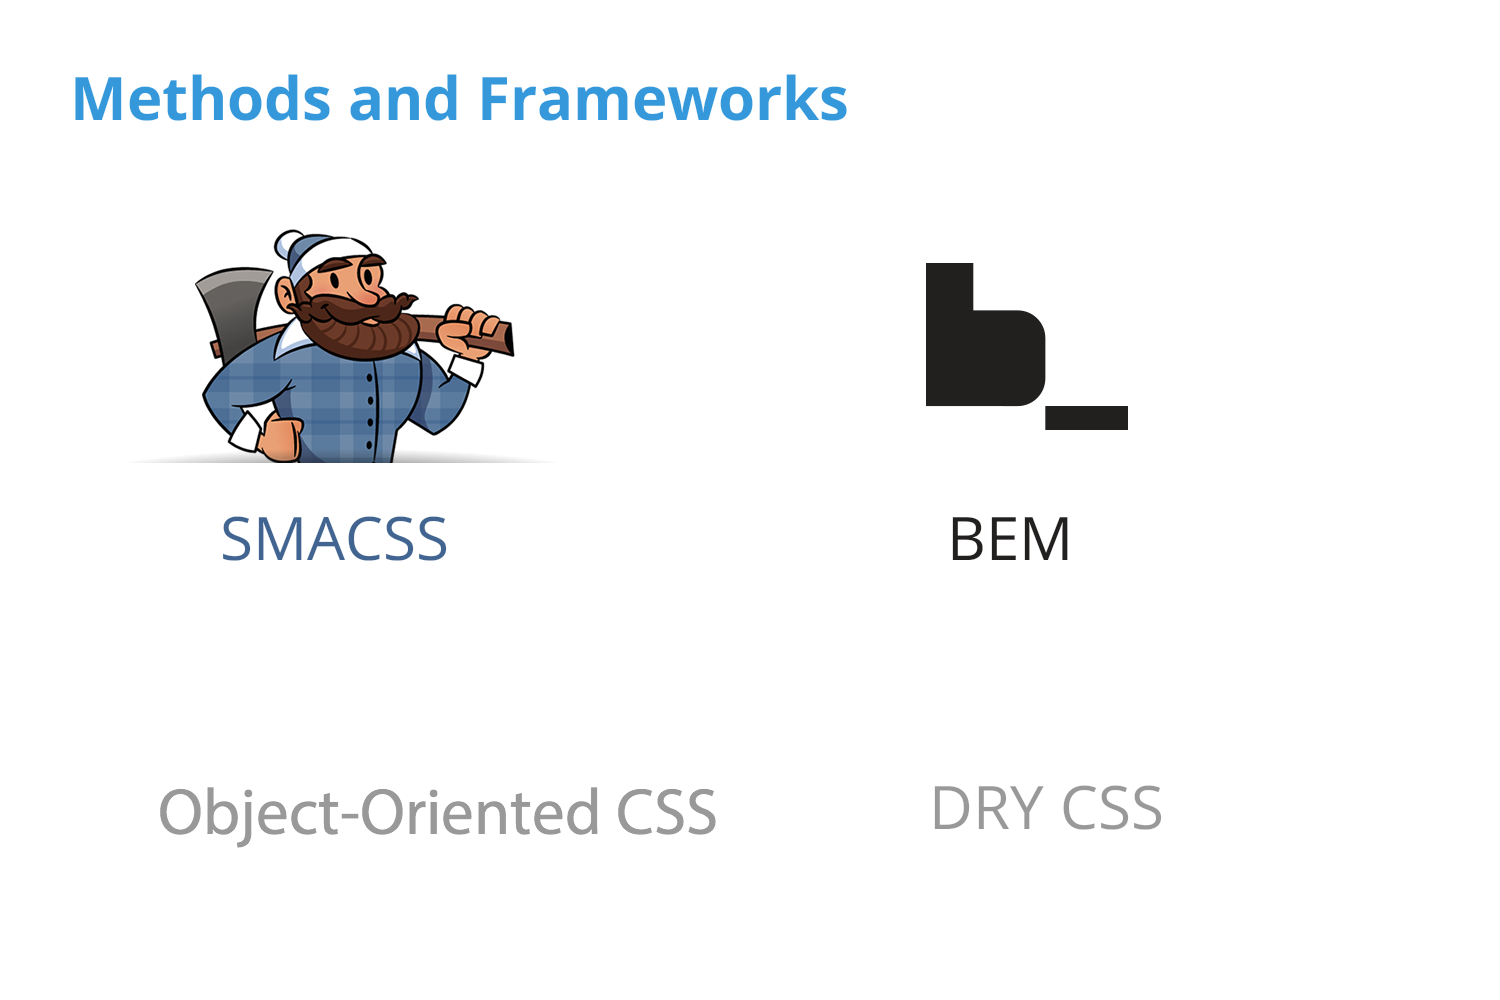
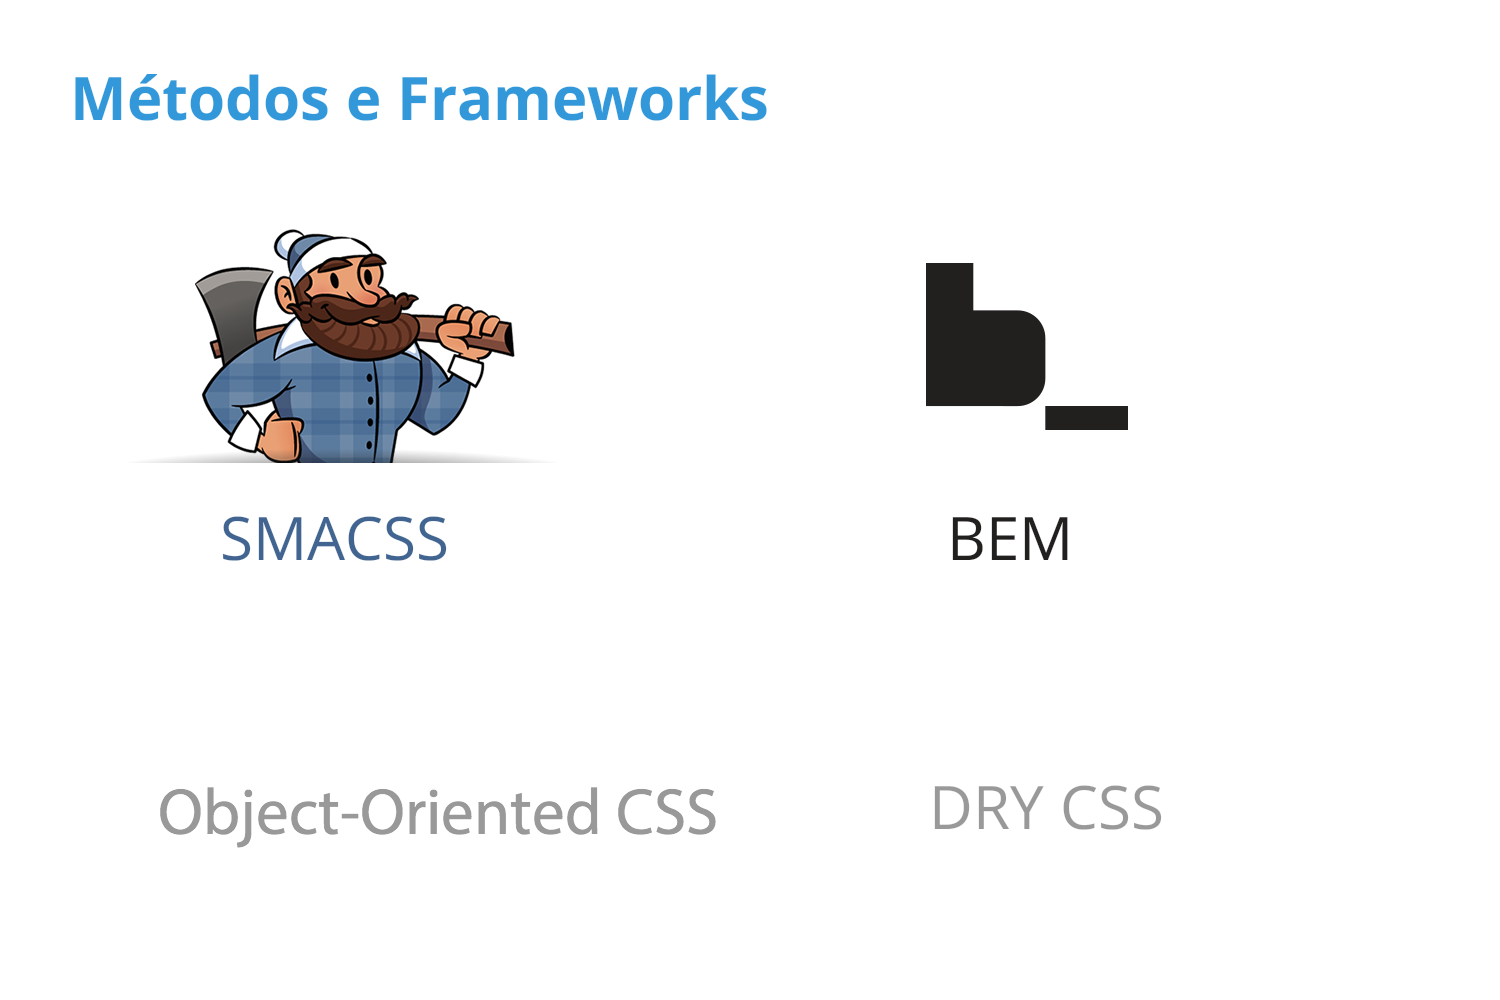
making portuguese version

Changed region(s): [[0.1227, 0.062, 0.5827, 0.124]]

diff --git a/index.html b/index.html
@@ -43,16 +43,17 @@
   
   <slide>
       <hgroup>
-        <h2>Problems with CSS</h2>
+        <h2>Problemas com CSS</h2>
       </hgroup>
       <article>
         <ul class="build">
-          <li>Usually it's a mess</li>
-          <li>It's hard to mantain</li>
-          <li>It's hard to change</li>
-          <li>No organization</li>
-          <li>Too specific - not reusable</li>
-          <li>Not testable</li>
+          <li>Normalmente é uma bagunça</li>
+          <li>É dificil de manter</li>
+          <li>É dificil de modificar</li>
+          <li>Não tem organização</li>
+          <li>Código muito especifico</li>
+          <li>Código não reusável</li>
+          <li>Código não testável</li>
         </ul>
       </article>
   </slide>
@@ -64,7 +65,7 @@
   <slide>
     <hgroup>
       <h2>Sass</h2>
-      <h3>Variables</h3>
+      <h3>Variáveis</h3>
     </hgroup>
     <article>
       <pre class="prettyprint" data-lang="sass">
@@ -80,7 +81,7 @@
   <slide>
     <hgroup>
       <h2>Sass</h2>
-      <h3>Variables</h3>
+      <h3>Variáveis</h3>
     </hgroup>
     <article class="smaller">
       <pre class="prettyprint" data-lang="sass">
@@ -240,7 +241,7 @@
           <li>CSS3 Mixins</li>
           <li>Typography Mixins</li>
           <li>Utilities Mixins</li>
-          <li>Easy way to create sprites</li>
+          <li>Maneira fácil de criar sprites</li>
         </ul>
       </article>
   </slide>
@@ -296,7 +297,7 @@
 
 <slide>
   <hgroup>
-    <h2>structure</h2>
+    <h2>Estrutura</h2>
   </hgroup>
   <article class="smaller">
     <pre class="prettyprint" data-lang="file system">
@@ -356,10 +357,10 @@
       </hgroup>
       <article>
         <ul class="build">
-          <li>UI documentation</li>
-          <li>Keep things consistant</li>
-          <li>Speed up development</li>
-          <li>Testing tool for your style</li>
+          <li>Documentação de interface</li>
+          <li>Mantém sua interface consistente</li>
+          <li>Acelera o desenvolvimento</li>
+          <li>Ferramenta de teste para sua interface</li>
         </ul>
       </article>
   </slide>
@@ -374,11 +375,11 @@
       </hgroup>
       <article>
         <ul class="build">
-          <li>Automated test for your style</li>
-          <li>Based on screenshots</li>
-          <li>Use phantom js</li>
-          <li>Easy to integrate on build tools (jenkins, bamboo, cruise control, etc...)</li>
-          <li>Still alpha</li>
+          <li>Testes automatizados</li>
+          <li>Baseados em screenshots</li>
+          <li>Usa phantom js</li>
+          <li>Fácil de integrar com ferramentas de build (jenkins, bamboo, cruise control, etc...)</li>
+          <li>Ainda estado alpha</li>
         </ul>
       </article>
   </slide>

diff --git a/slide_config.js b/slide_config.js
@@ -1,7 +1,7 @@
 var SLIDE_CONFIG = {
   // Slide settings
   settings: {
-    title: 'Front-end architecture of OpenMrs Ref App',
+    title: 'Arquitetura e práticas de CSS',
     subtitle: 'Glauber Ramos',
     //eventInfo: {
     //  title: 'Google I/O',
